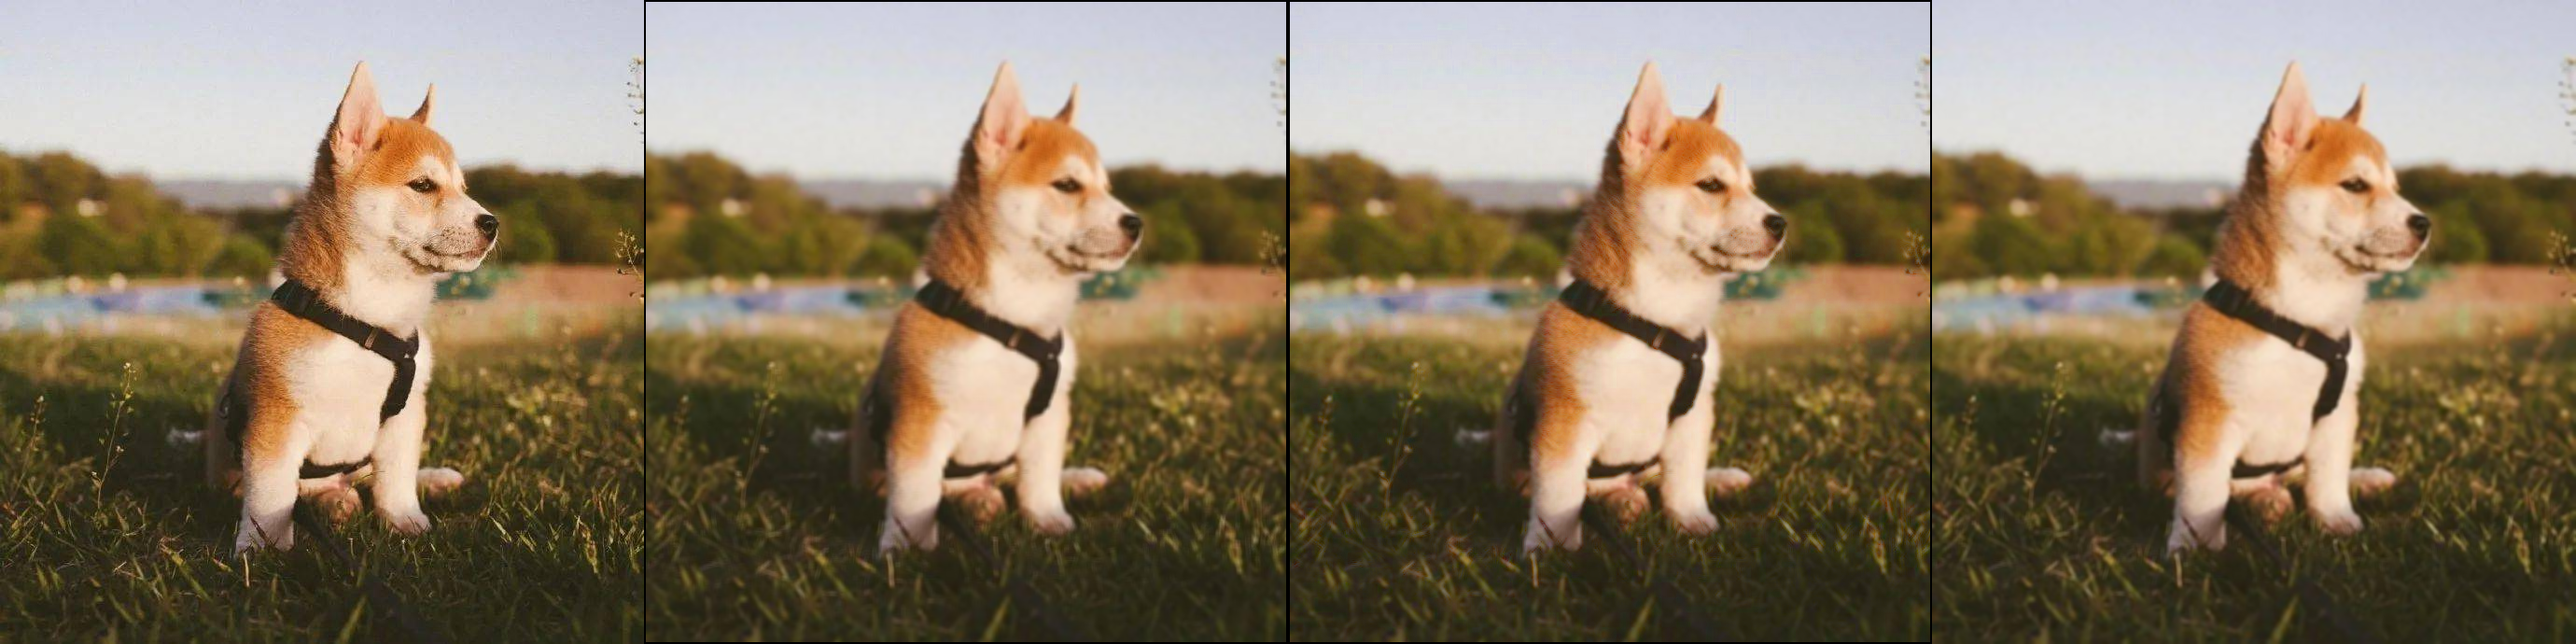
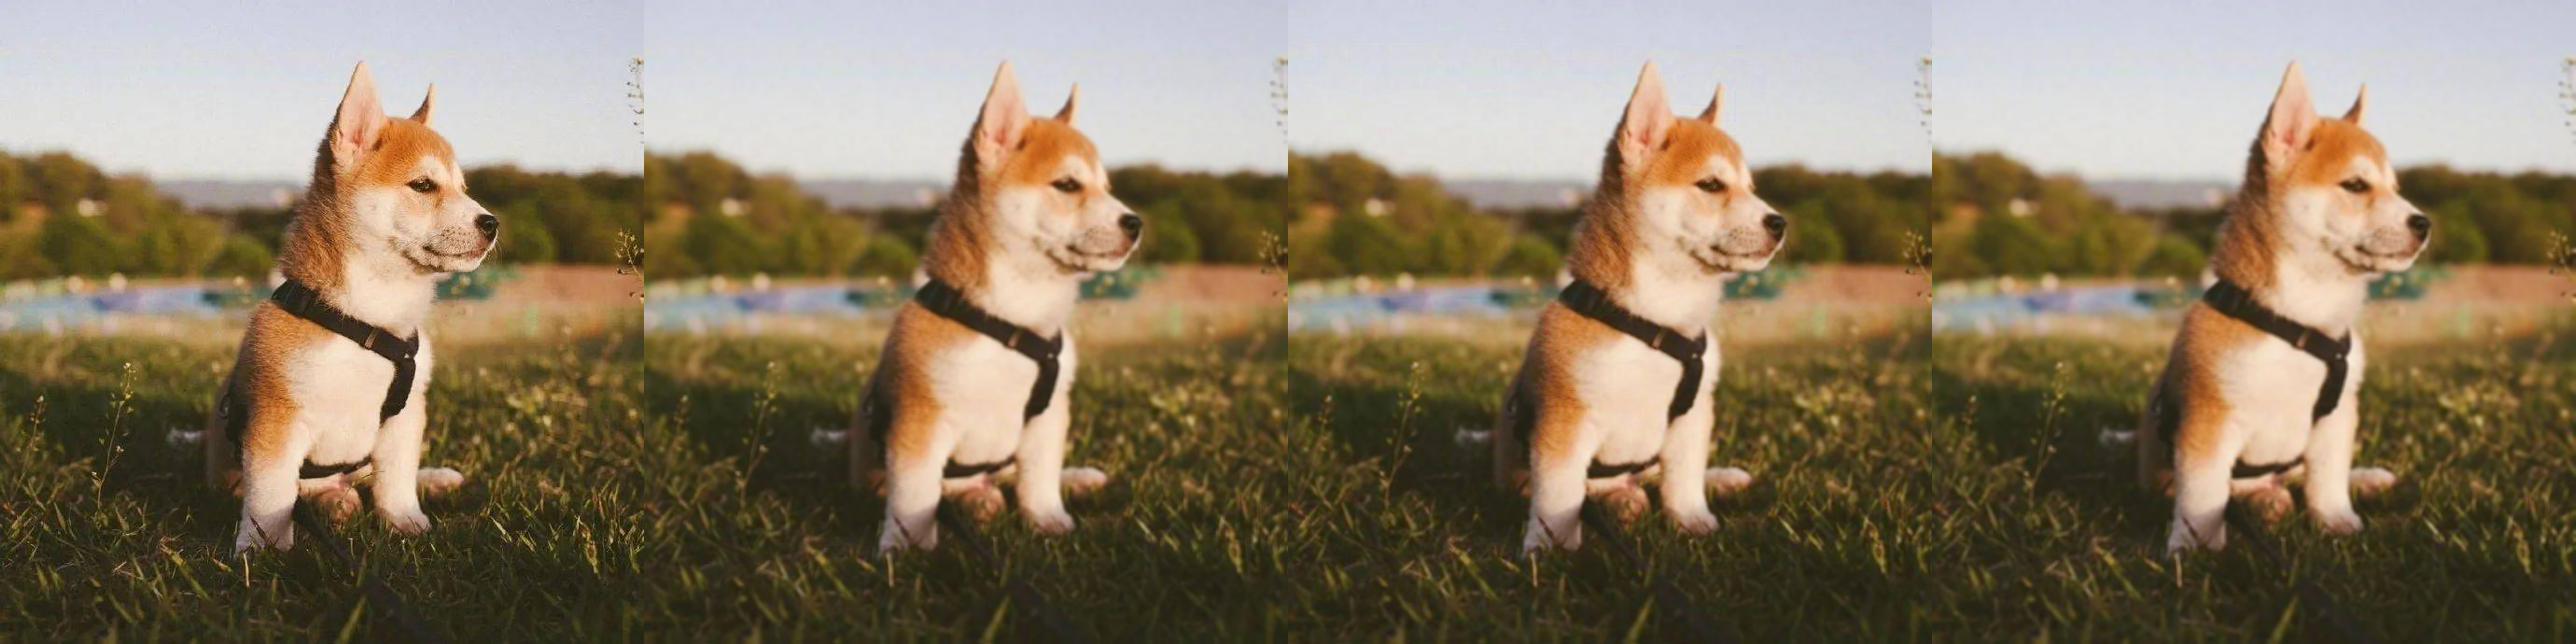
feature: filtered image padding

Changed region(s): [[0.2493, 0.9739, 0.7478, 1.0], [0.4986, 0.0, 0.5297, 0.0304], [0.2493, 0.0, 0.2804, 0.0304]]

diff --git a/cv01_image_filter/image_filter.py b/cv01_image_filter/image_filter.py
@@ -26,24 +26,23 @@ def my_gauss_kernel(size=3, sigma=1.5):
 
 # 自定义高斯滤波函数（单通道）
 def my_gauss_filter(img, ksize=3, sigma=1.5, kernel=[]):
-    height = img.shape[0]
-    width = img.shape[1]
+    padding = int(ksize/2)
+    height = img.shape[0] - padding*2
+    width = img.shape[1] - padding*2
     result_img = np.zeros((height, width), np.uint8)
     # 计算卷积
-    half_ksize = int(ksize/2)
-    ksize_up = half_ksize + 1
-    ksize_below = 0 - half_ksize
-    for i in range(half_ksize, height - half_ksize):
-        for j in range(half_ksize, width - half_ksize):
+    for i in range(0, height):
+        for j in range(0, width):
             sum = 0
-            for k in range(ksize_below, ksize_up):
-                for l in range(ksize_below, ksize_up):
-                    sum += img[i + k, j + l] * kernel[k + 1, l + 1]  # 高斯滤波
+            for k in range(0, ksize):
+                for l in range(0, ksize):
+                    sum += img[i + k, j + l] * kernel[k, l]  # 高斯滤波
             result_img[i, j] = sum
-        if i % 100 == half_ksize:
+        if i % 100 == 0:
             print("Calculating convolution... i={}".format(i))
     print("Convolution is finished!")
-    return result_img
+    result_img_padding = cv.copyMakeBorder(result_img, padding, padding, padding, padding, cv.BORDER_DEFAULT)
+    return result_img_padding
 
 
 # 自定义高斯滤波函数（灰度图像）
@@ -106,7 +105,7 @@ img_guassian_gray = cv.GaussianBlur(img_gray, (K_SIZE, K_SIZE), SIGMA, my_kernel
 # 对比灰度滤波效果
 img_compare_gray = np.hstack([img_gray, img_filter_gray, img_guassian_gray])
 # 显示结果及保存
-# img_show('compare_gray', img_compare_gray)
+img_show('compare_gray', img_compare_gray)
 cv.imwrite("image/img_compare_gray.png", img_compare_gray)
 
 # 处理彩色图像 img
@@ -119,7 +118,7 @@ img_guassian_bgr = cv.GaussianBlur(img, (K_SIZE, K_SIZE), SIGMA)
 # 对比彩色滤波效果
 img_compare_color = np.hstack([img, img_filter_bgr, img_filter_hsv, img_guassian_bgr])
 # 显示结果及保存
-# img_show('compare_color', img_compare_color)
+img_show('compare_color', img_compare_color)
 cv.imwrite("image/img_compare_color.png", img_compare_color)
 
 # 对比高斯核参数size
@@ -134,6 +133,6 @@ img_filter_sigma10 = my_gauss_filter_bgr(img, 9, 10)
 compare_sigma = np.hstack([img, img_filter_sigma2, img_filter_sigma5, img_filter_sigma10])
 image_compare_kernel = np.vstack([compare_size, compare_sigma])
 # 显示结果及保存
-# img_show('image_compare_kernel', image_compare_kernel)
+img_show('image_compare_kernel', image_compare_kernel)
 cv.imwrite("image/image_compare_kernel.png", image_compare_kernel)
 
